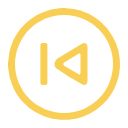
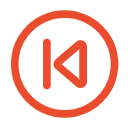
feature

Changed region(s): [[0.0625, 0.0625, 0.9375, 0.9375], [0.3125, 0.2812, 0.6875, 0.7188]]

diff --git a/src/components/player.vue b/src/components/player.vue
@@ -1,6 +1,6 @@
 /** Created by preference on 2021/05/13 AuthorName:Seven Email:xtlhcy@gmail.com **/
 <template>
-  <div class="player">
+  <div class="player" v-if="playList.length">
     <transition name="normal" v-show="showNormal">
       <div class="normal-player">
         <div class="background">
@@ -26,8 +26,9 @@
           <div class="last-btn">
             <img src="@/assets/images/last.png" />
           </div>
-          <div class="play_stop-btn">
-            <img src="@/assets/images/play.png" />
+          <div class="play_stop-btn" @click="playSong">
+            <img v-show="playing" src="@/assets/images/stop.png" />
+            <img v-show="!playing" src="@/assets/images/play.png" />
           </div>
           <div class="next-btn">
             <img src="@/assets/images/next.png" />
@@ -56,18 +57,19 @@
         </div>
       </div>
     </transition>
-    <audio ref="audio" src=""></audio>
+    <audio ref="audio" :src="songurl"></audio>
   </div>
 </template>
 <script lang='ts'>
-import { defineComponent, ref } from 'vue'
-import { topDetail } from '@/api/player.js'
+import { defineComponent, onMounted, ref } from 'vue'
+import { topDetail, songUrl } from '@/api/player.js'
 export default defineComponent({
   components: {},
   setup() {
     let songDetail = ref({})
     let picUrl = ref('')
     let singer = ref('')
+    let playList = ref([])
     const showNormal = ref(true)
     topDetail().then((res) => {
       if (res.code === 200) {
@@ -76,17 +78,44 @@ export default defineComponent({
         picUrl.value = res.songs[0].al.picUrl
         singer.value = res.songs[0].ar[0].name
         console.log(songDetail, picUrl)
+        getSongList()
       }
     })
+    //缩放
     const backPut = () => {
       showNormal.value = !showNormal.value
+    }
+    // 获取歌曲链接
+    let songurl = ref('')
+    const getSongList = () => {
+      songUrl().then((res) => {
+        if (res.code == 200) {
+          songurl.value = res.data[0].url
+        }
+      })
+    }
+    // 播放
+    let audio = ref(null)
+    let playing = ref(false)
+    const playSong = () => {
+      playing.value = !playing.value
+      if (playing.value) {
+        audio.value.play()
+      } else {
+        audio.value.pause()
+      }
     }
     return {
       songDetail,
       singer,
       picUrl,
       backPut,
-      showNormal
+      showNormal,
+      songurl,
+      audio,
+      playSong,
+      playing,
+      playList
     }
   }
 })
@@ -187,7 +216,7 @@ export default defineComponent({
       .header-top-songs {
         font-size: @font-size-large-x;
         margin-top: 1.5vh;
-        color: @color-theme;
+        color: @color-text-ll;
       }
     }
   }
@@ -239,10 +268,10 @@ export default defineComponent({
   &.normal-enter-active,
   &.normal-leave-active {
     transition: all 0.4s;
-    // .header-top,
-    // .bottom {
-    transition: all 0.4s cubic-bezier(0.86, 0.18, 0.82, 1.32);
-    // }
+    .header-top,
+    .bottom-btn {
+      transition: all 0.4s cubic-bezier(0.86, 0.18, 0.82, 1.32);
+    }
   }
   &.normal-enter,
   &.normal-leave-to {

diff --git a/src/common/style/variableDark.less b/src/common/style/variableDark.less
@@ -1,22 +1,19 @@
-.theme1(
-    @color-background: #222;
-    @color-background-d:rgba (0, 0, 0, 0.3);
-    @color-highlight-background: #333;
-    @color-dialog-background: #666;
-    @color-theme: #ffcd32;
-    @color-theme-d:rgba (255, 205, 49, 0.5);
-    @color-sub-theme: #d93f30;
-    @color-text: #fff;
-    @color-text-d: #5d6166;
-    @color-text-l: #888b90;
-    @color-text-ll: #cecfd0;
-    @color-play-background: #333; //字体定义规范
-    
-    @font-size-small-s: 10px;
-    @font-size-small: 12px;
-    @font-size-medium: 14px;
-    @font-size-medium-x: 16px;
-    @font-size-large: 18px;
-    @font-size-large-x: 22px;
+@color-background: #222;
+@color-background-d: #191d21;
+@color-highlight-background: #333;
+@color-dialog-background: #666;
+@color-theme: #e94d2e;
+@color-theme-d: #907127;
+@color-sub-theme: #d93f30;
+@color-text: #fff;
+@color-text-d: #5d6166;
+@color-text-l: #888b90;
+@color-text-ll: #cecfd0;
+@color-play-background: #333; //字体定义规范
 
-);
+@font-size-small-s: 10px;
+@font-size-small: 12px;
+@font-size-medium: 14px;
+@font-size-medium-x: 16px;
+@font-size-large: 18px;
+@font-size-large-x: 22px;

diff --git a/src/common/style/theme.less b/src/common/style/theme.less
@@ -1,8 +1,27 @@
-@import url('./variableDark.less');
-@import url('./variableLight.less');
-.theme1(
-    .theme1()
-);
-.theme2(
-    .theme2()
-);
+.theme(@color-background:#222,@color-background-d:#1c1f26,@color-highlight-background:#333,
+@color-dialog-background:#666,@color-theme:#ffcd32,@color-theme-d:#92732b,@color-sub-theme:#d93f30,
+@color-text:#fff,  @color-text-d: #5d6166,
+@color-text-l: #888b90,
+@color-text-ll: #cecfd0,
+@color-play-background: #333
+) {
+  @color-background: @color-background;
+  @color-background-d: @color-background-d;
+  @color-highlight-background: @color-highlight-background;
+  @color-dialog-background: @color-dialog-background;
+  @color-theme: @color-theme;
+  @color-theme-d: @color-theme-d;
+  @color-sub-theme: @color-sub-theme;
+  @color-text: @color-text;
+  @color-text-d: @color-text-d;
+  @color-text-l: @color-text-l;
+  @color-text-ll: @color-text-ll;
+  @color-play-background: @color-play-background; //字体定义规范
+
+  @font-size-small-s: 10px;
+  @font-size-small: 12px;
+  @font-size-medium: 14px;
+  @font-size-medium-x: 16px;
+  @font-size-large: 18px;
+  @font-size-large-x: 22px;
+}

diff --git a/src/main.ts b/src/main.ts
@@ -5,6 +5,6 @@ import store from './store/index'
 import Vant from 'vant'
 import { Lazyload } from 'vant'
 import 'vant/lib/index.css'
-import './styles/color.less'
-
+// import('@/common/style/variableDark.less')
+console.log(localStorage.getItem('theme'))
 createApp(App).use(router).use(store).use(Vant).use(Lazyload).mount('#app')

diff --git a/src/common/style/variableLight.less b/src/common/style/variableLight.less
@@ -1,5 +1,3 @@
-.theme2(
-    // 颜色定义规范
 @color-background: #eaecef;
 @color-background-d:rgba (0, 0, 0, 0.3);
 @color-highlight-background: #fff;
@@ -19,5 +17,3 @@
 @font-size-medium-x: 16px;
 @font-size-large: 18px;
 @font-size-large-x: 22px;
-
-);

diff --git a/src/api/player.js b/src/api/player.js
@@ -7,3 +7,11 @@ export function topDetail(data) {
 		params: data
 	});
 }
+
+export function songUrl(data) {
+	return axios({
+		url: '/song/url?id=346089',
+		method: 'get',
+		params: data
+	});
+}
